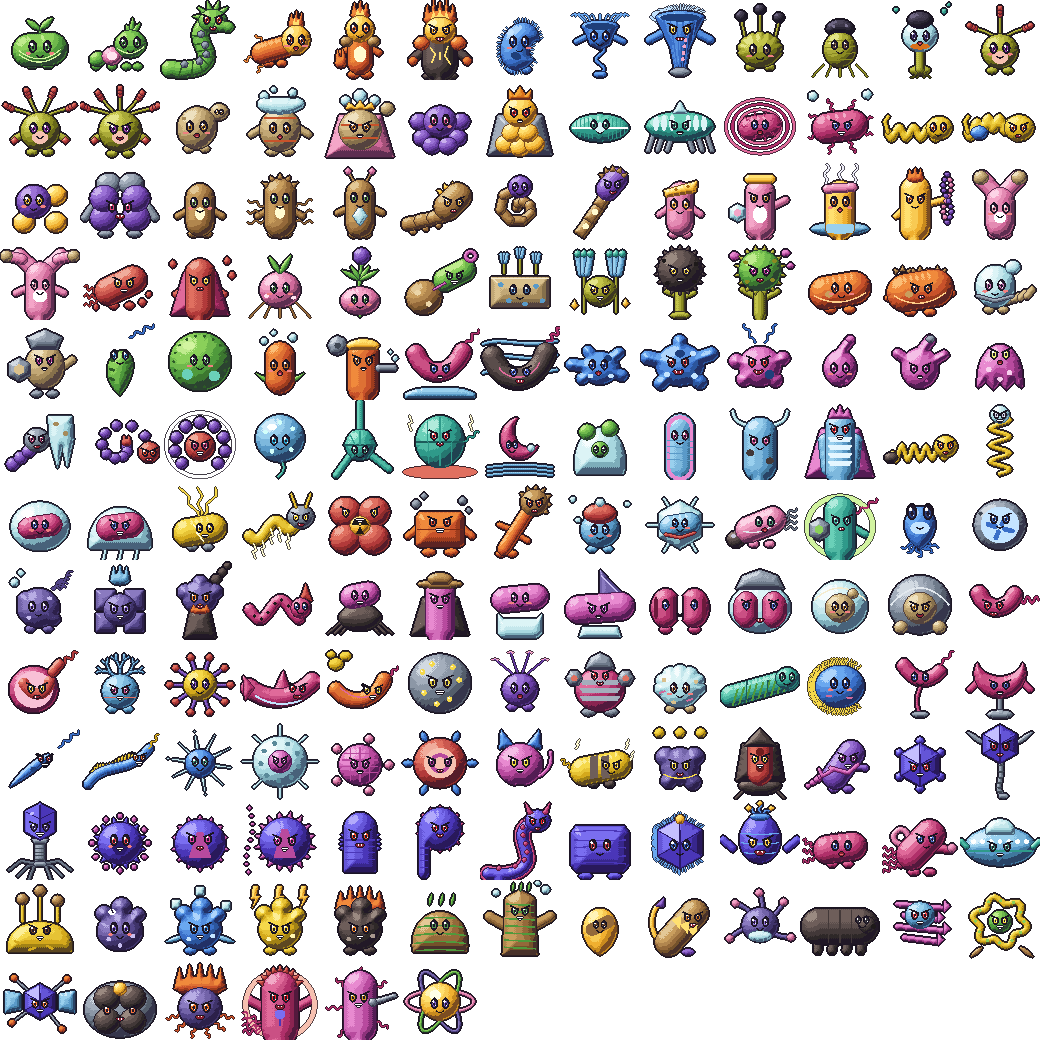
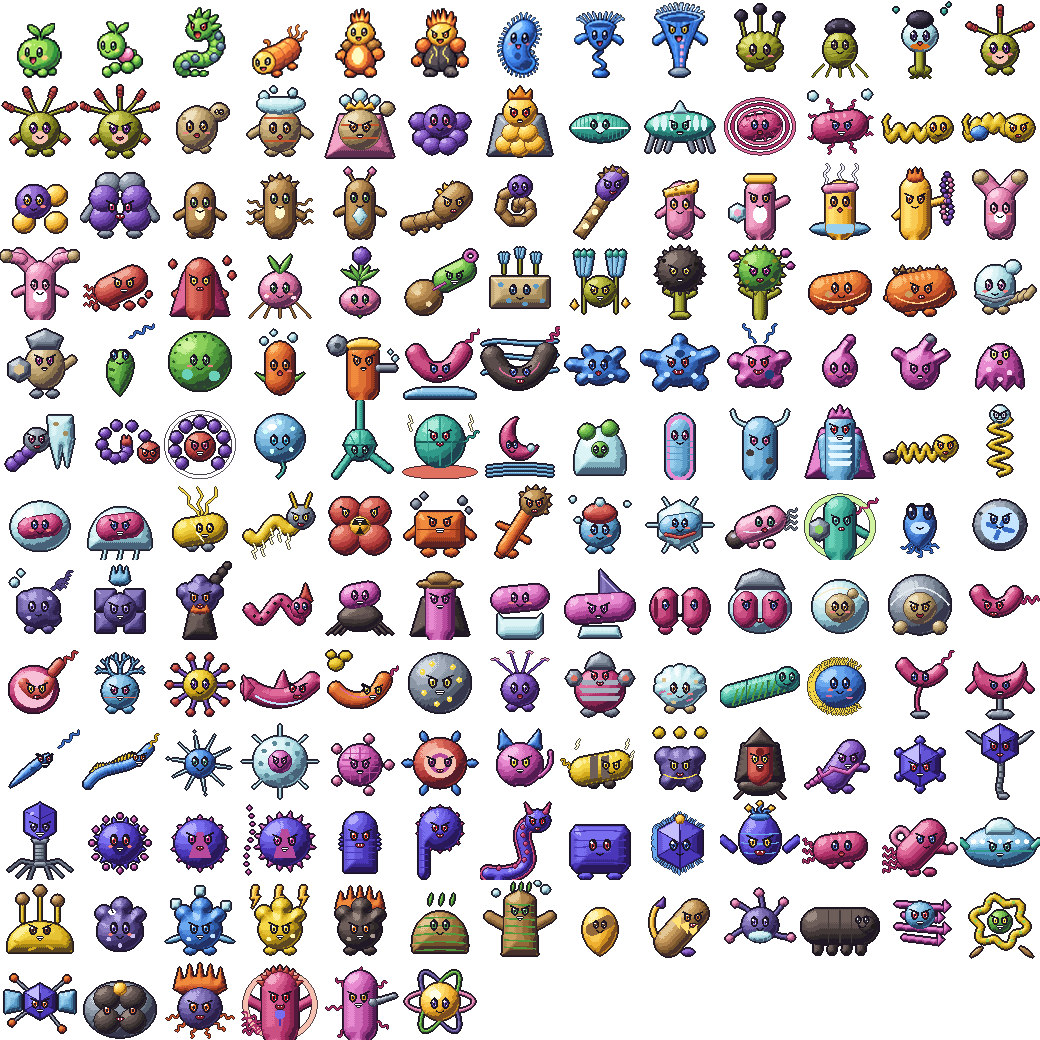
Iniciales y evoluciones con los sprites del usuario
Claude-Session: https://claude.ai/code/session_018v1fAZrQHSEnPWssP3zxe4

Changed region(s): [[0.0, 0.0, 0.5231, 0.0923], [0.5538, 0.0, 0.7077, 0.0923]]

diff --git a/tools/art/microos_usuario.py b/tools/art/microos_usuario.py
@@ -1,0 +1,70 @@
+#!/usr/bin/env python3
+"""Sprites de Microos dibujados por el usuario: láminas en assets/reference/microos/ con una rejilla de especies
+(nombre arriba; frente a la izquierda y espalda a la derecha) sobre fondo claro.
+
+Quita el fondo y los rótulos, separa cada figura y la escala a la celda de 80 px del juego con la misma escala para
+toda la lámina (se respetan los tamaños relativos que dibujó el usuario). Escribe
+assets/sprites/microos_usuario/<id>_frente.png y _espalda.png, que species_art.py usa en lugar de los generados.
+"""
+from pathlib import Path
+import numpy as np
+from PIL import Image
+from scipy.ndimage import label, binary_fill_holes
+
+ROOT = Path(__file__).resolve().parents[2]
+SRC, OUT = ROOT / "assets/reference/microos", ROOT / "assets/sprites/microos_usuario"
+C, MAXF = 80, 76
+
+LAMINAS = {
+    "iniciales.png": [["synechoc", "anabaen", "spirulmax"], ["butyricum", "acetobuty", "thermocel"], ["paramec", "vorticel", "stentorox"]],
+}
+
+def figuras(path, rejilla):
+    a = np.array(Image.open(path).convert("RGB")); f = a.astype(int)
+    fondo = (f.min(2) > 215) & (f.max(2) - f.min(2) < 26)
+    lab, _ = label(fondo)
+    borde = set(np.unique(np.concatenate([lab[0], lab[-1], lab[:, 0], lab[:, -1]]))) - {0}
+    fg = binary_fill_holes(~np.isin(lab, list(borde)))
+    fl, n = label(fg); tam = np.bincount(fl.ravel()); tam[0] = 0
+    # piezas grandes (figuras); los rótulos son letras sueltas pequeñas y oscuras sobre una franja
+    comps = []
+    for k in range(1, n + 1):
+        if tam[k] < 60: continue
+        ys, xs = np.where(fl == k)
+        # letras de los rótulos: piezas pequeñas casi negras
+        tinta = ~fondo[ys, xs]
+        if tam[k] < 4000 and tinta.any() and f[ys, xs][tinta].sum(1).mean() < 260 and (ys.max() - ys.min()) < 50: continue
+        comps.append(dict(k=k, x=xs.mean(), y=ys.mean(), x0=xs.min(), x1=xs.max() + 1, y0=ys.min(), y1=ys.max() + 1, n=tam[k]))
+    H, W = fg.shape
+    filas, cols = len(rejilla), len(rejilla[0])
+    out = {}
+    for r in range(filas):
+        for c in range(cols):
+            celda = [q for q in comps if int(q["y"] / (H / filas)) == r and int(q["x"] / (W / cols)) == c]
+            cuerpo = celda
+            xm = c * W / cols + W / cols / 2
+            for lado, sel in (("frente", [q for q in cuerpo if q["x"] < xm]), ("espalda", [q for q in cuerpo if q["x"] >= xm])):
+                if not sel: raise SystemExit(f"{rejilla[r][c]} {lado}: sin figura")
+                x0 = min(q["x0"] for q in sel); x1 = max(q["x1"] for q in sel); y0 = min(q["y0"] for q in sel); y1 = max(q["y1"] for q in sel)
+                m = np.isin(fl[y0:y1, x0:x1], [q["k"] for q in sel])
+                out[(rejilla[r][c], lado)] = Image.fromarray(np.dstack([a[y0:y1, x0:x1], np.where(m, 255, 0).astype(np.uint8)]))
+    return out
+
+def a_celda(im, k, alto_celda=C):
+    s = im.convert("RGBa").resize((max(1, round(im.width * k)), max(1, round(im.height * k))), Image.LANCZOS).convert("RGBA")
+    arr = np.array(s); arr[..., 3] = np.where(arr[..., 3] > 120, 255, 0)
+    s = Image.fromarray(arr)
+    cel = Image.new("RGBA", (C, C)); cel.alpha_composite(s, ((C - s.width) // 2, alto_celda - 2 - s.height))
+    return cel
+
+def main():
+    OUT.mkdir(parents=True, exist_ok=True)
+    for lam, rejilla in LAMINAS.items():
+        figs = figuras(SRC / lam, rejilla)
+        k = MAXF / max(max(im.width, im.height) for im in figs.values())
+        for (sp, lado), im in figs.items():
+            a_celda(im, k).save(OUT / f"{sp}_{lado}.png")
+        print("OK", lam, len(figs), "figuras")
+
+if __name__ == "__main__":
+    main()

diff --git a/tools/art/species_art.py b/tools/art/species_art.py
@@ -101,6 +101,17 @@ ART = {
 }
 LEGENDARY = {"prion-sc", "viroid-cad", "sputnik-v", "ecoli-o157", "salmonella-typhimurium", "luca"}
 
+def icono_de(fr: Image.Image) -> Image.Image:
+    """Icono de 32 px a partir del sprite de frente (recortado a la figura y reducido sin perder el contorno)."""
+    import numpy as np
+    a = np.array(fr); ys, xs = np.where(a[..., 3] > 0)
+    fig = fr.crop((xs.min(), ys.min(), xs.max() + 1, ys.max() + 1))
+    k = 30 / max(fig.size)
+    s = fig.convert("RGBa").resize((max(1, round(fig.width * k)), max(1, round(fig.height * k))), Image.LANCZOS).convert("RGBA")
+    b = np.array(s); b[..., 3] = np.where(b[..., 3] > 110, 255, 0)
+    out = Image.new("RGBA", (32, 32)); out.alpha_composite(Image.fromarray(b), ((32 - s.width) // 2, 31 - s.height))
+    return out
+
 def main():
     dex = json.load(open(ROOT / "data/microdex.json", encoding="utf-8"))
     sp = {s["id"]: s for s in json.load(open(ROOT / "data/species.json", encoding="utf-8"))}
@@ -131,6 +142,11 @@ def main():
             fr = draw(i, m["types"], st, ms, fam, P, 80, True, **kw).image()
             bk = back_view(draw(i, m["types"], st, ms, fam, P, 80, False, **kw).image())
             ic = draw(i, m["types"], st, ms, fam, P, 32, True, **kw).image()
+        # sprites dibujados por el usuario (tools/art/microos_usuario.py) en lugar de los generados
+        U = ROOT / "assets/sprites/microos_usuario"
+        if (U / f"{i}_frente.png").exists():
+            fr = Image.open(U / f"{i}_frente.png").convert("RGBA"); bk = Image.open(U / f"{i}_espalda.png").convert("RGBA")
+            ic = icono_de(fr)
         strip = Image.new("RGBA", (64, 32)); strip.alpha_composite(ic, (0, 0)); strip.alpha_composite(ic.crop((0, 1, 32, 32)), (32, 0))
         fr.save(out / f"{i}_frente.png"); bk.save(out / f"{i}_espalda.png"); strip.save(out / f"{i}_icono.png")
         x, y = (k % cols), (k // cols)

diff --git a/CLAUDE.md b/CLAUDE.md
@@ -17,4 +17,4 @@ RPG por turnos tipo Pokémon sobre microbiología. Diseño en `docs/gdd.txt`; de
 - Al terminar cada lote: actualizar `PROGRESO.md`, hacer commit y push.
 - Micromón V2 (tileset de 4.ª gen. del usuario): `python3 tools/art/tileset_v2.py` → `assets/atlas_v2/`; `bun run tools/build_game.ts --v2` → `dist/micromonV2.html` (se publica como artifact aparte). La V1 no cambia. Ciudades de la V2 en `src/game/world/ciudades_v2.ts`; comprobar con `bun run tools/v2_check.ts` y `NODE_PATH=$(npm root -g) node tools/playtest_v2.cjs <carpeta>`.
 - Juego: `src/game/` (motor 2D propio). Construir con `bun run tools/build_game.ts` → `dist/index.html` (un único archivo con todo incrustado). Probar con `NODE_PATH=$(npm root -g) node tools/playtest.cjs <carpeta>`.
-- Arte: `python3 tools/art/species_art.py` (Microos), `tiles.py`, `font.py`, `protagonistas.py`, `npc_sheets.py`, `char_atlas.py`; generan los atlas de `assets/atlas/`.
+- Arte: `python3 tools/art/species_art.py` (Microos), `tiles.py`, `font.py`, `protagonistas.py`, `npc_sheets.py`, `microos_usuario.py` (antes de species_art), `char_atlas.py`; generan los atlas de `assets/atlas/`.

diff --git a/PROGRESO.md b/PROGRESO.md
@@ -206,5 +206,7 @@ Roadmap: 7 fases (0–6). Cada fase termina en una puerta.
 
 - Vídeo de introducción: las escenas de los protagonistas usan sus figuras de cuerpo entero (atlas protas_intro), que caminan con sus 4 fotogramas al presentarse la chica y en la escena de la pareja; también en las siluetas de los iniciales.
 
+- Sprites de los iniciales y sus evoluciones dibujados por el usuario (`assets/reference/microos/iniciales.png`): `python3 tools/art/microos_usuario.py` → `assets/sprites/microos_usuario/`, que `species_art.py` usa en lugar de los generados (frente, espalda e icono). Para más láminas, añadirlas a `LAMINAS`.
+
 ## Siguiente tarea
 Pendiente del GDD: Modo Torneo y mochila bloqueada en Difícil, objetos equipados, variocolor y RandomLocke. Posibles mejoras: más diálogos y misiones secundarias, mejorar la calidad de los sprites (Microos diseñados por especie, retratos limpios, pasos), música y efectos.
